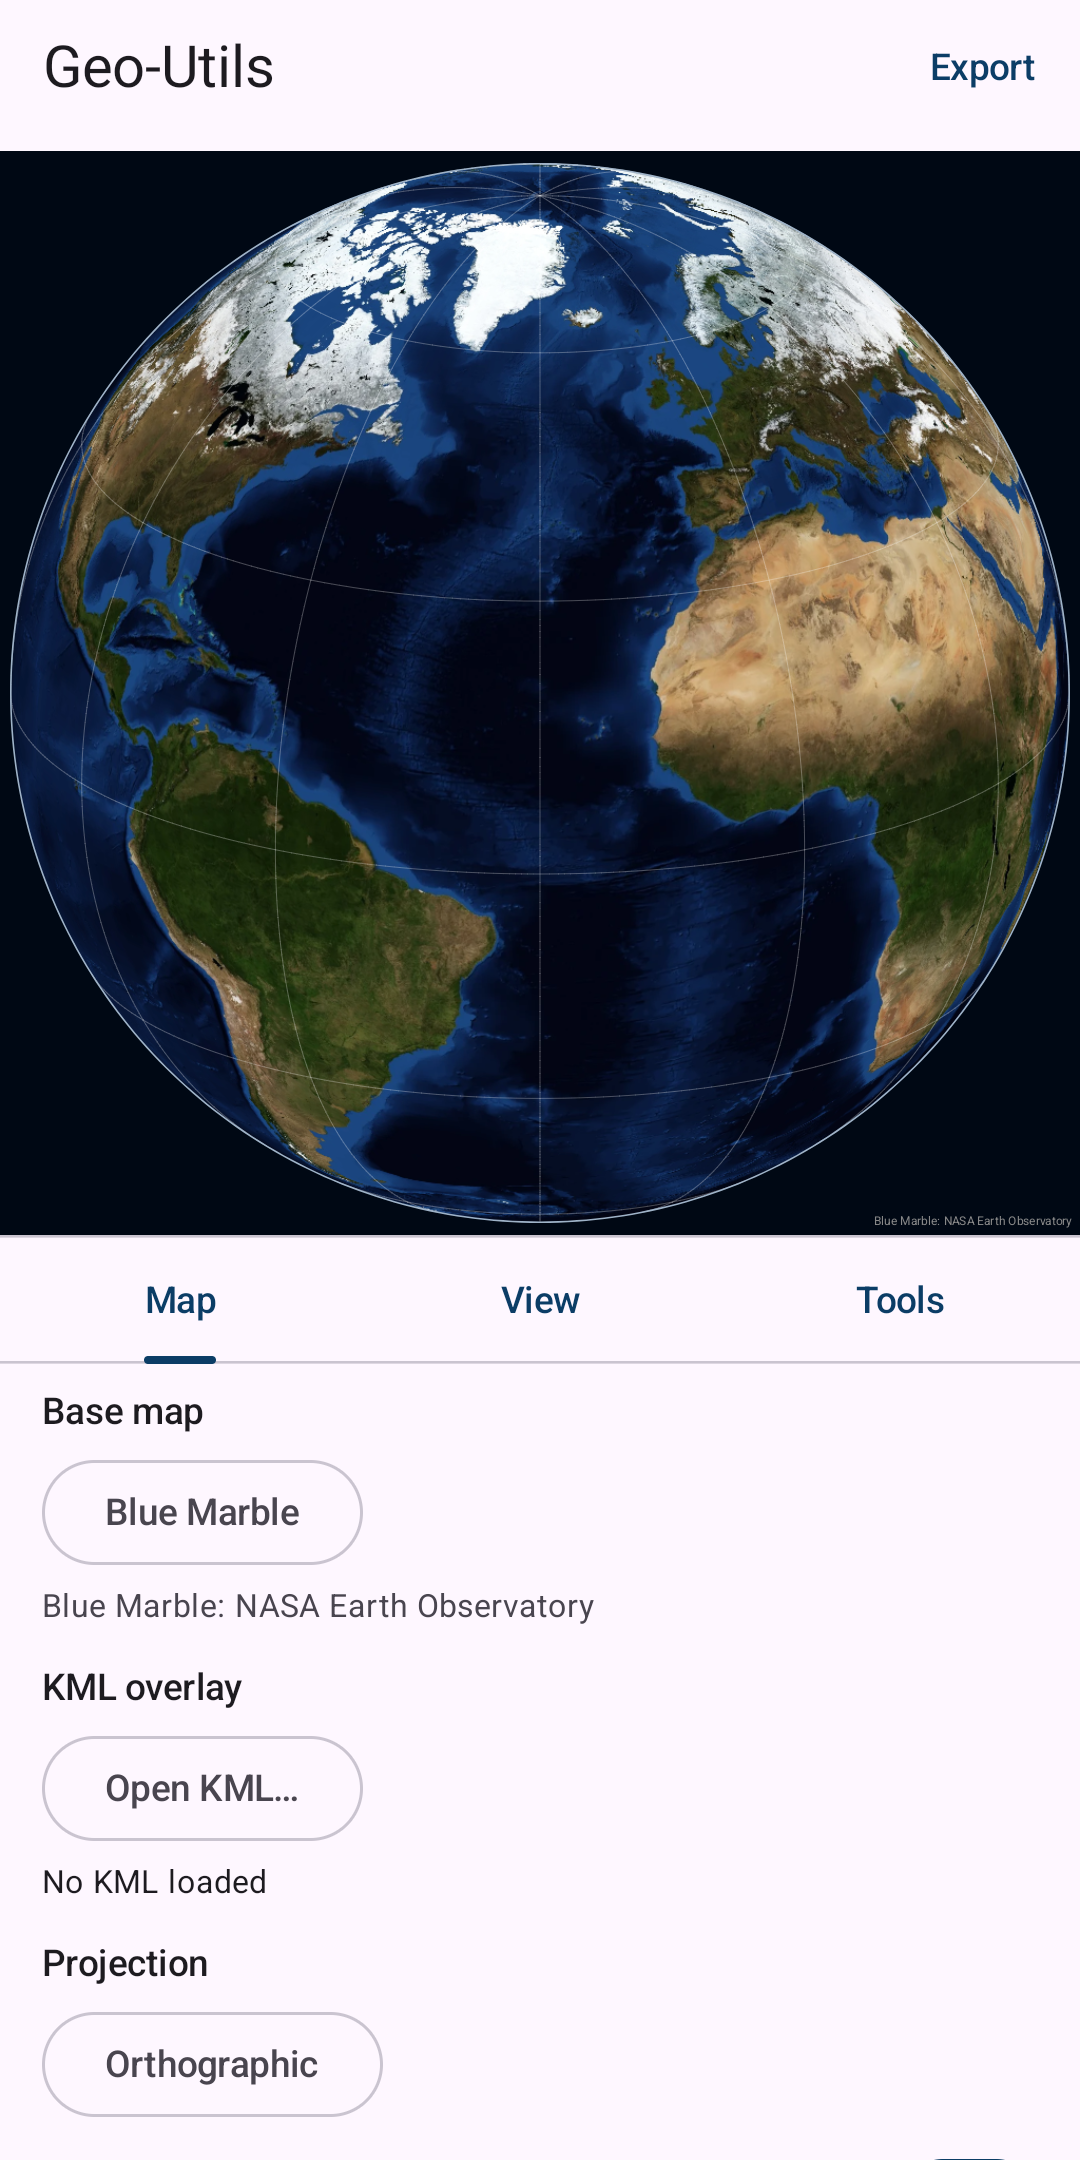
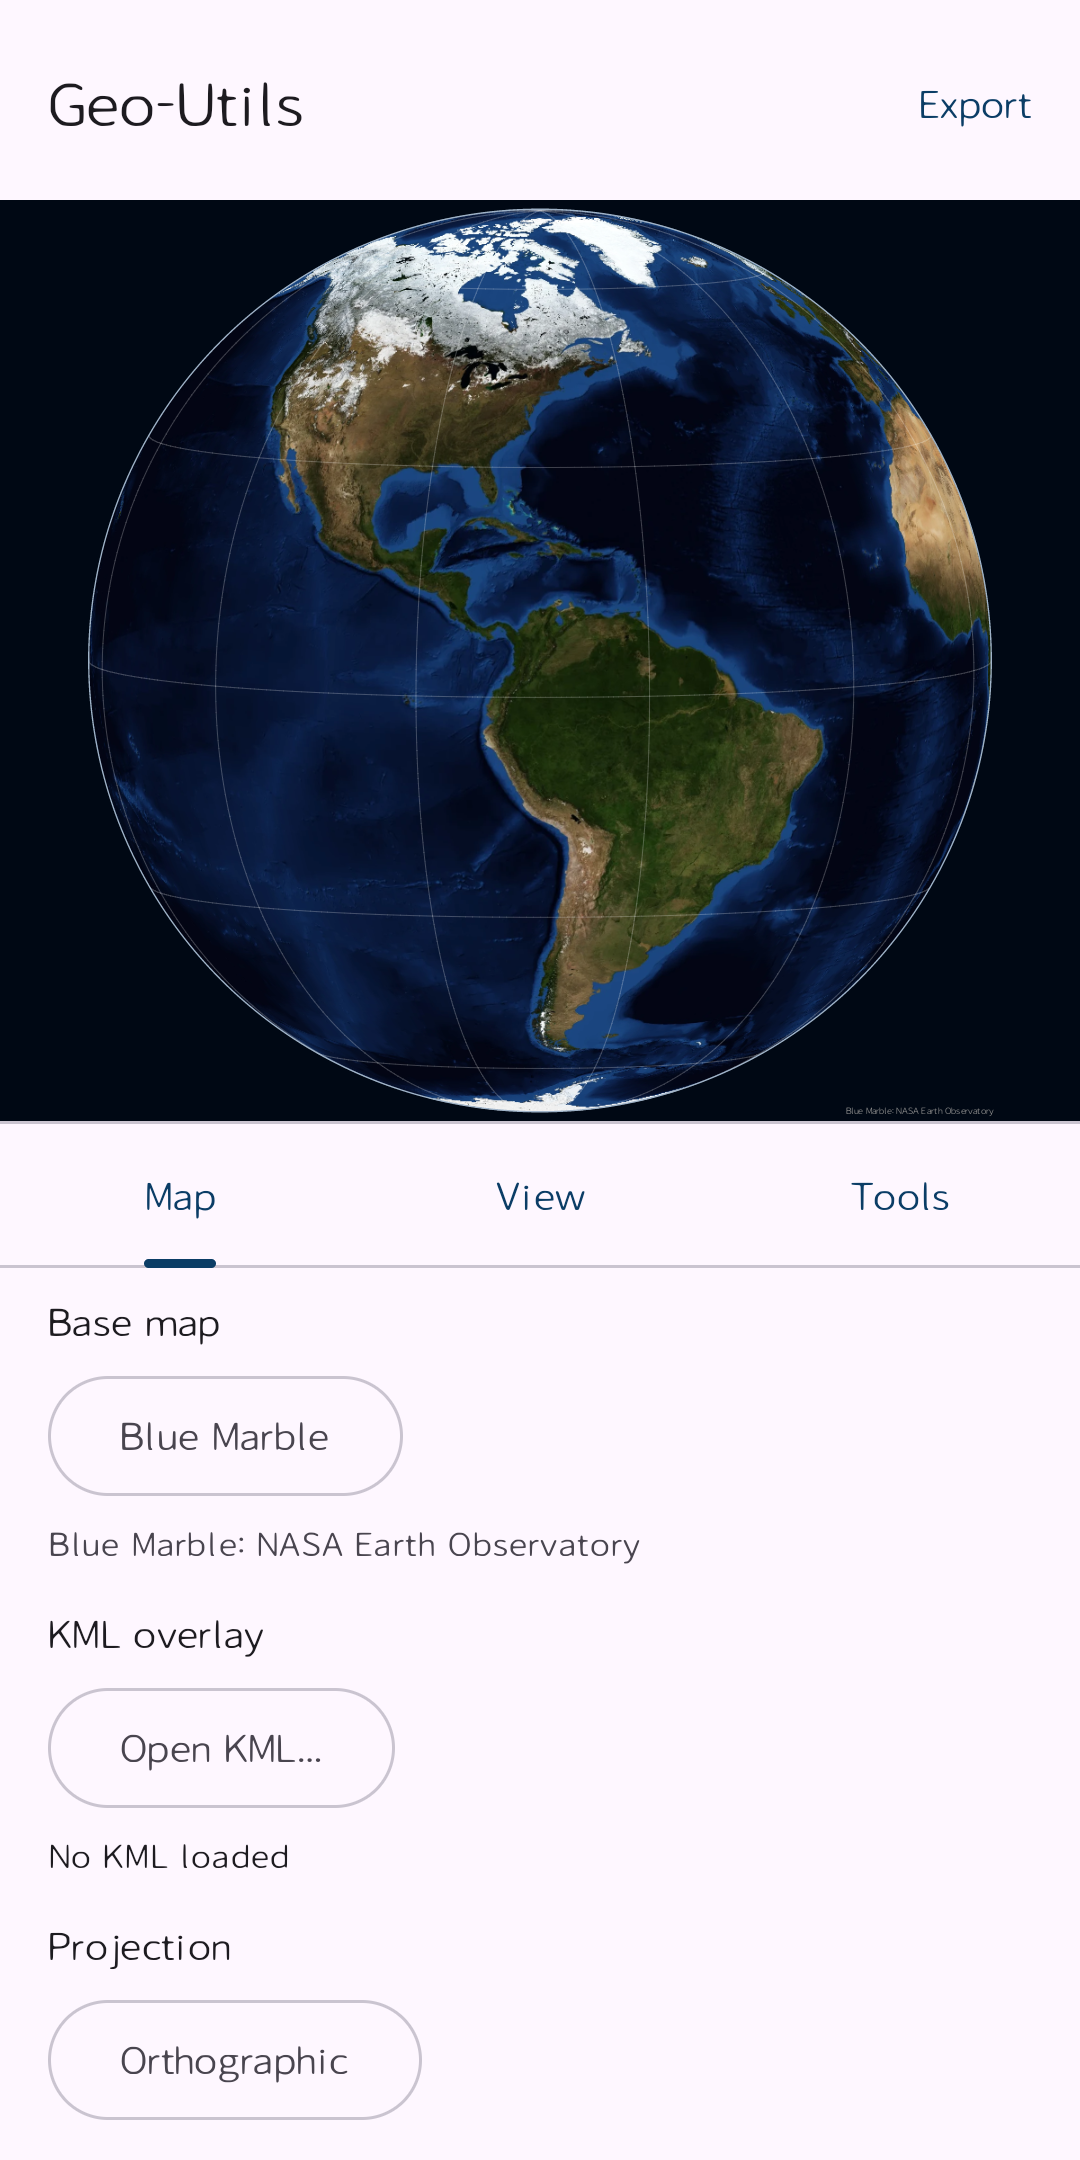
Play package: screenshots from a real phone, cropped and with a neutral map center

diff --git a/play/README.md b/play/README.md
@@ -10,12 +10,13 @@ Package: `aps.ilecto.geoutils`.
 | App bundle (release) | `app/build/outputs/bundle/release/app-release.aab` (build with `./gradlew bundleRelease`; not committed) |
 | App icon, 512×512 | `icon-512.png` |
 | Feature graphic, 1024×500 | `feature-graphic.png` |
-| Phone screenshots, 1080×2160 (2:1, Play's maximum) | `screenshots/phone/01-orthographic.png`, `02-sinusoidal.png`, `03-view.png` |
+| Phone screenshots, 1080×2160 (2:1, Play's maximum) | `screenshots/phone/01-orthographic.png`, `02-azimuthal.png`, `03-view.png` |
 
-Screenshots come from the debug build on an emulator (Pixel-like, 1080×2400),
-cropped to 2:1 to remove the status and navigation bars. Retake them when the
-UI changes. Play also wants 7-inch and 10-inch tablet screenshots only if you
-want the app featured on tablets; they are optional.
+Screenshots come from a real phone (1080×2388) running the debug build,
+cropped to 2:1 to remove the status bar (which showed notifications). The View
+shot uses a neutral center (-30°, 20°) so no real location appears. Retake them
+when the UI changes. Play also wants 7-inch and 10-inch tablet screenshots only
+if you want the app featured on tablets; they are optional.
 
 ## Listing (English, en-US)
 
